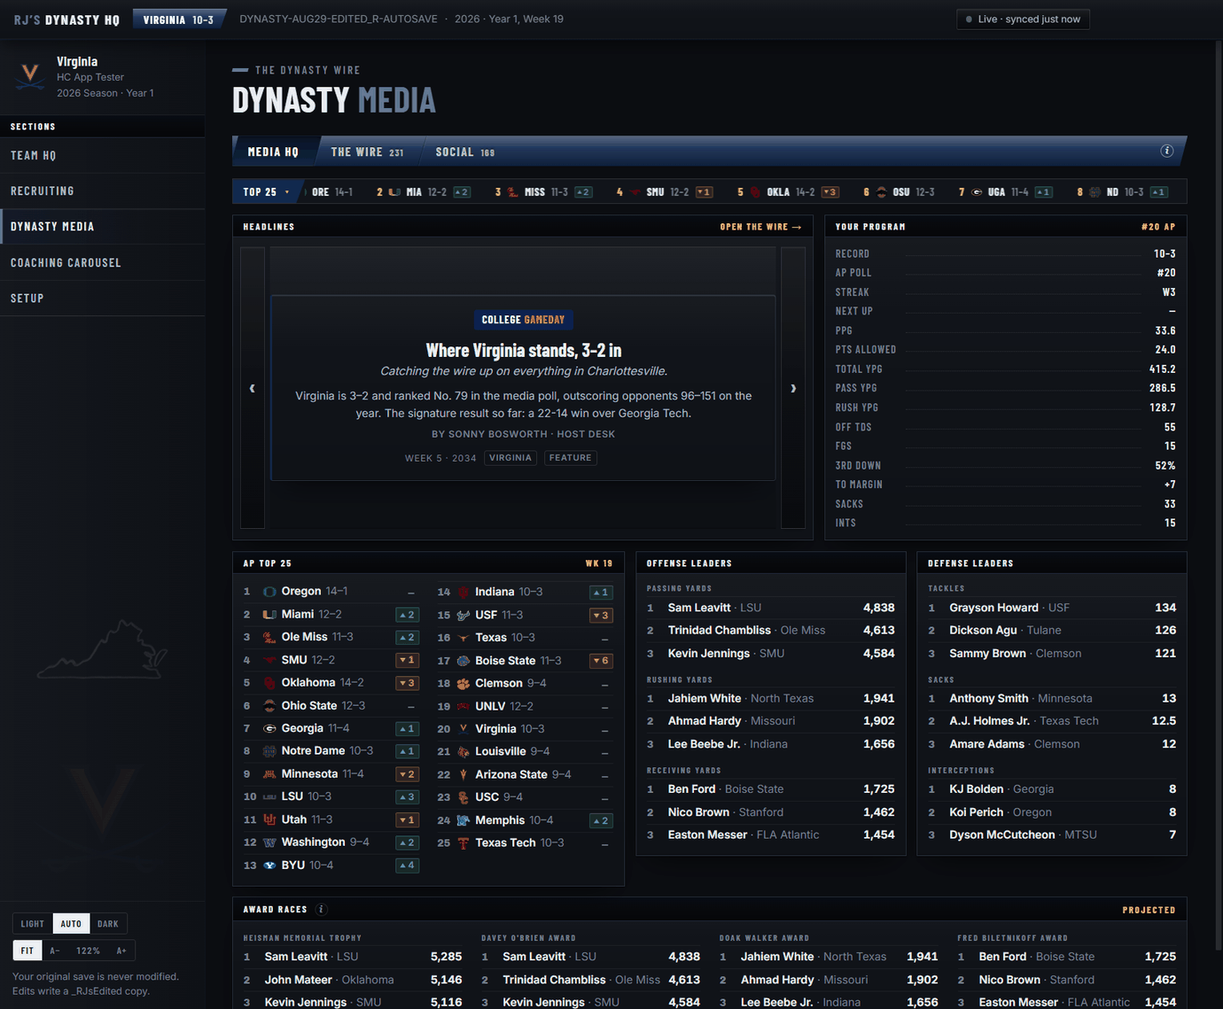
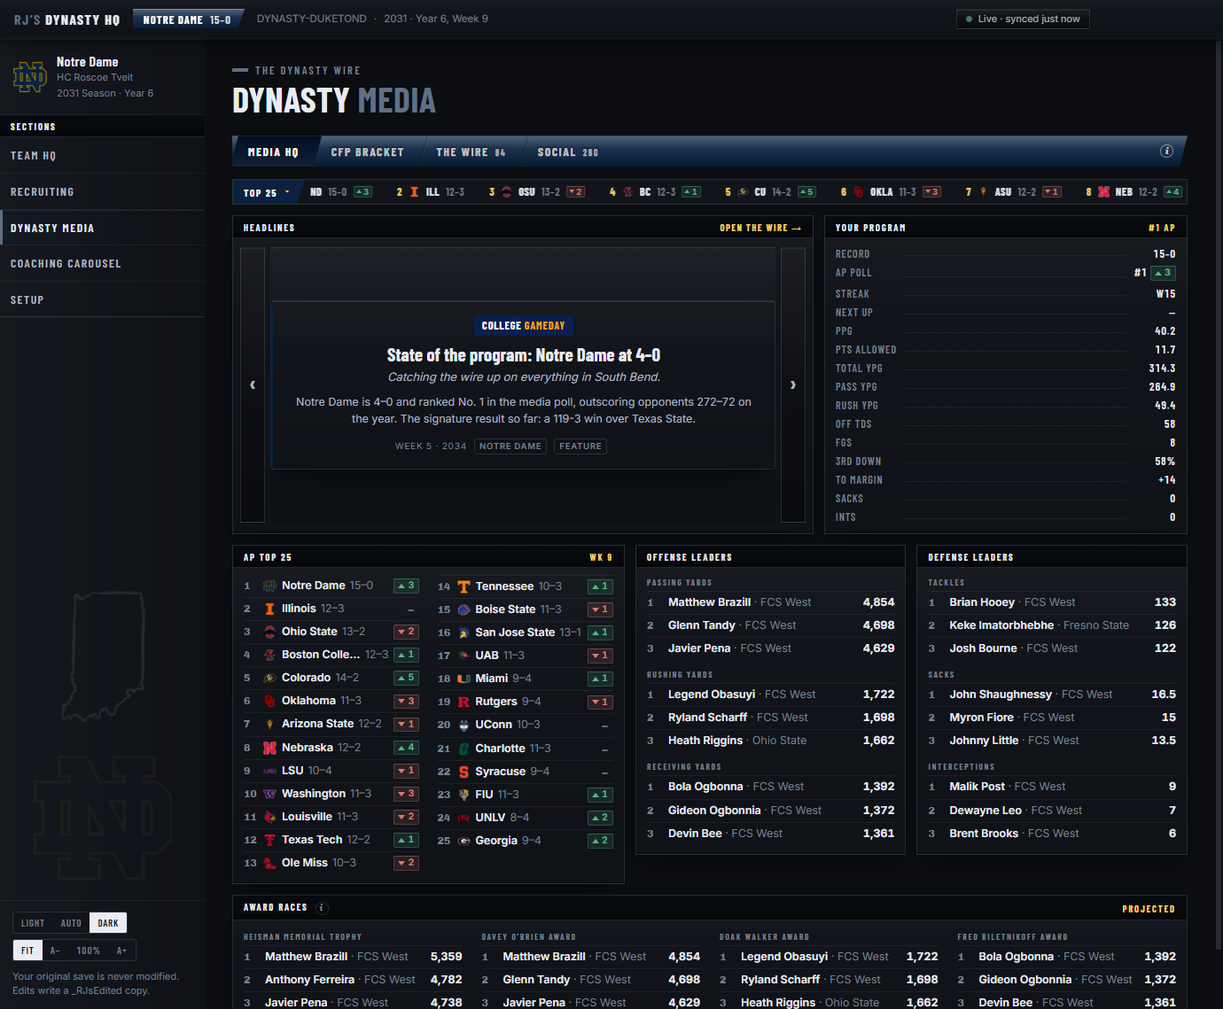
README: document the new features, refresh screenshots, tighten prose
Covers the three screens added since the last README pass: This Week's
Matchup, the Team History trophy case, and the Media HQ CFP Bracket. The
extract-rivalry-art.ts step is added to the game-art extraction list.

Renewed the screenshots whose tab bars had gone stale (the program
dashboard was missing the Matchup tab; the media screens were missing
the CFP Bracket tab) and added shots for the three new screens, all at
the existing 1380x1139 size.

Also reworked the prose so it reads plainly: removed the em dashes
throughout and smoothed the phrasing.

diff --git a/README.md b/README.md
@@ -2,7 +2,7 @@
 
 A live companion dashboard for **EA Sports College Football 27** dynasty mode on PC.
 
-Point it at your dynasty save once — from then on, every time the game writes that save, the dashboard refreshes itself. No screenshots, no spreadsheets, no manual entry. When you load a different save, it finds the program you're coaching on its own.
+Point it at your dynasty save once. From then on, every time the game writes that save, the dashboard refreshes itself. No screenshots, no spreadsheets, no manual entry. When you load a different save, it finds the program you're coaching on its own.
 
 ![Program Dashboard](docs/screenshots/program-dashboard.png)
 
@@ -10,18 +10,21 @@ Point it at your dynasty save once — from then on, every time the game writes 
 
 ### Team HQ
 
-Everything about your program, in one place — set on your stadium's real field, with your school's actual end-zone paint and midfield art pulled from your own installed game.
+Everything about your program in one place, set on your stadium's real field with your school's actual end-zone paint and midfield art pulled from your own installed game.
 
-- **Program Dashboard** — a win/loss graph of your seasons in your school's colors, with national titles carrying the CFP mark and every bowl showing its own logo. Your **athletic director's mandate**: this season's expectation in the AD's own words, a job-security meter with your national standing, contract years remaining, and your active season goals. Your **pipeline map** with the game's own tier pins, and your full **program grades** sheet.
-- **Roster & depth chart** — overalls, dev traits, class years, redshirts, size and speed, archetypes and hometowns; every column sorts. The **depth chart edits by drag and drop** — reorder any position window and save it back through the same protected copy the player editor uses.
-- **Recruiting Office** — your board under the **Team Needs strip**: next season's 57-man floor drawn as literal seats per position — filled by returning players, gold for your commits, open where someone must be signed — with departures counted out the moment they're known. Each target row expands to their At a Glance card, and a quiet warning dot flags two of your own targets demanding playing time at the same spot.
-- **Weekly Plan** — a per-target dialog with the game's real action prices: assign hours, schedule visits, offer the scholarship (against the hard 35-offer season cap), send the NIL offer, set the sway pitch — with your remaining hour pool bookkept live and options that would blow the week's budget locked out with a plain explanation.
-- **Build the board** — add and drop targets right from either recruiting board, staged and saved in one write; **Create Recruit** invents a prospect from scratch: identity, stars, dev trait, measurables, and their whole look — face picked from the game's own head catalog, skin tone, body type, and every gear slot with real helmet-facemask compatibility.
-- **NIL & Budget** — income pillars with grades, spending, weekly staff points, NIL commitments — plus **Fundraising** and **Hire Additional Recruiters** buttons that write more budget or recruiting hours into your save's protected copy.
-- **Tendencies** — your real run/pass splits, third and fourth down rates, red-zone efficiency, and each coach's temperament sliders.
-- **Playbook** — the actual book your coordinators run, browsable by formation family, with personnel groupings and every play listed.
-- **Team History** — the all-time ledger and your rivalry series.
-- **Visit any program** — the View Another Team menu opens the full Team HQ for any school in the country, every tab included.
+- **Program Dashboard.** A win/loss graph of your seasons in your school's colors, with national titles carrying the CFP mark and every bowl showing its own logo. Your athletic director's mandate reads out this season's expectation in the AD's own words, next to a job-security meter with your national standing, contract years remaining, and your active season goals. Below that sits your pipeline map with the game's own tier pins and your full program grades sheet.
+- **This Week's Matchup.** Your featured game laid out as a pregame board on the home team's field, home team left and away team right. Tiles compare team form, offense and defense, the series history between the two schools, and the players worth watching: award winners, record holders and national statistical leaders on either side. Rivalry games carry the trophy on the line.
+- **Roster & depth chart.** Overalls, dev traits, class years, redshirts, size and speed, archetypes and hometowns, with every column sortable. The depth chart edits by drag and drop: reorder any position window and save it back through the same protected copy the player editor uses.
+- **Recruiting Office.** Your board under the Team Needs strip, which draws next season's 57-man floor as literal seats per position. Filled seats are returning players, gold seats are your commits, open seats are where someone still has to be signed, and departures are counted out the moment they're known. Each target row expands to an At a Glance card, and a quiet warning dot flags two of your own targets who would demand playing time at the same spot.
+- **Weekly Plan.** A per-target dialog with the game's real action prices. Assign hours, schedule visits, offer the scholarship against the hard 35-offer season cap, send the NIL offer, and set the sway pitch, with your remaining hour pool bookkept live. Options that would blow the week's budget are locked out with a plain explanation of why.
+- **Build the board.** Add and drop targets right from either recruiting board, staged and saved in one write. Create Recruit invents a prospect from scratch: identity, stars, dev trait, measurables, and their whole look, with the face picked from the game's own head catalog, plus skin tone, body type, and every gear slot using real helmet and facemask compatibility.
+- **NIL & Budget.** Income pillars with grades, spending, weekly staff points, and NIL commitments. Fundraising and Hire Additional Recruiters buttons write more budget or recruiting hours into your save's protected copy.
+- **Tendencies.** Your real run/pass splits, third and fourth down rates, red-zone efficiency, and each coach's temperament sliders.
+- **Playbook.** The actual book your coordinators run, browsable by formation family, with personnel groupings and every play listed.
+- **Team History.** A trophy case of your rivalry hardware, showing the real trophies the game models for each series, plus the rivalry ledger and your program's national honors and Heisman line. More on the trophy case below.
+- **Visit any program.** The View Another Team menu opens the full Team HQ for any school in the country, every tab included.
+
+![This Week's Matchup](docs/screenshots/this-weeks-matchup.png)
 
 ![Recruiting Office](docs/screenshots/recruiting-office.png)
 
@@ -29,26 +32,36 @@ Everything about your program, in one place — set on your stadium's real field
 
 ![Playbook](docs/screenshots/playbook.png)
 
-### Profiles — click any name, anywhere
+### Team History
 
-Every player, coach and school name in the app opens an ESPN-style profile card. Names inside a profile open more profiles; Esc walks back out.
+Your program's past, built from the save and dressed with the game's own art.
 
-- **Players** — a **Previous Game** score bug with their line from that game as stat tiles, season-by-season and career stats (transfers show every stop), full game logs, all ratings, named abilities, and — for quarterbacks — **NCAA passer rating** computed for every game, season and career line.
-- **Recruits** — stars and ranks, the full pursuit race with influence bars, their dealbreaker, and their **three motivations with the ideal pitch** that matches them, straight from the game's own pitch definitions.
-- **Coaches** — bio, contract and job security, the career ledger, and their full coaching history.
-- **Schools** — a season browser with schedules and results, team stat panels, records and coaches year by year, and the all-time program ledger.
-- **Real headshots** — profiles show actual in-game player and coach portraits once you extract them from your own installed game (see below).
+- **Trophy case.** The rivalry trophies the game actually models for your series, each real trophy render pulled from your installed game, lit up gold where your program leads the series and showing the record and current streak.
+- **Rivalry ledger.** Every series your program is part of, with all-time records, live streaks and last-meeting scores, each carrying its trophy mark where one exists.
+- **Program honors and Heisman line.** Every national award won at your school, listed by season, and the league's Heisman winners with yours highlighted.
+
+![Team History](docs/screenshots/team-history.png)
+
+### Profiles: click any name, anywhere
+
+Every player, coach and school name in the app opens an ESPN-style profile card. Names inside a profile open more profiles, and Esc walks back out.
+
+- **Players.** A Previous Game score bug with their line from that game as stat tiles, season-by-season and career stats (transfers show every stop), full game logs, all ratings, named abilities, and NCAA passer rating computed for every game, season and career line for quarterbacks.
+- **Recruits.** Stars and ranks, the full pursuit race with influence bars, their dealbreaker, and their three motivations with the ideal pitch that matches them, straight from the game's own pitch definitions.
+- **Coaches.** Bio, contract and job security, the career ledger, and their full coaching history.
+- **Schools.** A season browser with schedules and results, team stat panels, records and coaches year by year, and the all-time program ledger.
+- **Real headshots.** Profiles show actual in-game player and coach portraits once you extract them from your own installed game (see below).
 
 ![Player profile](docs/screenshots/profile.png)
 
 ### Player Editor
 
-Every player and recruit profile opens into an editor — hit **✎ Edit**.
+Every player and recruit profile opens into an editor. Hit **✎ Edit**.
 
-- Change **names and jersey numbers**, the position's full **rating sheet**, **mental abilities** and their tiers, and **physical ability tiers** — all validated against the save format's real limits before a single byte is written.
-- Edit a rostered player's whole **appearance**: their face (picked from the game's head catalog, with portrait previews), skin tone, body type, and all eleven gear slots — helmet and facemask combinations restricted to pairs the game actually uses.
-- **Your original save is never touched.** Saving writes a separate copy named `<save>_RJsEdited` beside the original, and the dashboard follows that copy from then on; load it in the game to play with your changes. Editing again updates the copy in place, after a timestamped backup.
-- Overall recalculates in the game itself the next time it loads the save — the app never invents a number.
+- Change names and jersey numbers, the position's full rating sheet, mental abilities and their tiers, and physical ability tiers, all validated against the save format's real limits before a single byte is written.
+- Edit a rostered player's whole appearance: their face (picked from the game's head catalog, with portrait previews), skin tone, body type, and all eleven gear slots, with helmet and facemask combinations restricted to pairs the game actually uses.
+- Your original save is never touched. Saving writes a separate copy named `<save>_RJsEdited` beside the original, and the dashboard follows that copy from then on. Load it in the game to play with your changes. Editing again updates the copy in place, after a timestamped backup.
+- Overall recalculates in the game itself the next time it loads the save. The app never invents a number.
 
 ![Player editor](docs/screenshots/player-editor.png)
 
@@ -56,9 +69,9 @@ Every player and recruit profile opens into an editor — hit **✎ Edit**.
 
 Three boards over the national class, under the same Team Needs seats as the office.
 
-- **Highschool Recruiting** — every prospect in the class with stars, true overall, height and weight, gem/bust, dev trait, pipeline, position and national rank, offers and commit tracking. A **Scheme Fit** dot shows how the recruit's archetype sits in your actual scheme — filled when your scheme starts that archetype, from the game's own per-scheme preferences — and the **Edge** arrow scores your program against the strongest school actually pursuing them: green when you hold a real advantage, red when you're behind. **Clicking any recruit expands their At a Glance card**: the skills their position lives on, their mental and physical abilities, and their motivations and ideal pitch.
-- **Transfer Portal** — the same board for portal transfers, which fills once your save reaches the offseason window.
-- **Scouting Reports** — search the class by attribute. *Receivers with 92+ speed. Quarterbacks with 94+ throw power. Tackles over 6'6" and 300 pounds.* Stack as many thresholds as you like; each becomes its own sortable column.
+- **Highschool Recruiting.** Every prospect in the class with stars, true overall, height and weight, gem/bust, dev trait, pipeline, position and national rank, offers and commit tracking. A Scheme Fit dot shows how the recruit's archetype sits in your actual scheme, filled when your scheme starts that archetype, from the game's own per-scheme preferences. The Edge arrow scores your program against the strongest school actually pursuing them: green when you hold a real advantage, red when you're behind. Clicking any recruit expands their At a Glance card with the skills their position lives on, their mental and physical abilities, and their motivations and ideal pitch.
+- **Transfer Portal.** The same board for portal transfers, which fills once your save reaches the offseason window.
+- **Scouting Reports.** Search the class by attribute. *Receivers with 92+ speed. Quarterbacks with 94+ throw power. Tackles over 6'6" and 300 pounds.* Stack as many thresholds as you like, and each becomes its own sortable column.
 
 ![Recruiting board](docs/screenshots/recruiting-board.png)
 
@@ -66,42 +79,45 @@ Three boards over the national class, under the same Team Needs seats as the off
 
 ### Dynasty Media
 
-A generated sports-media world built by diffing your saves — fully offline, no accounts, no API calls.
+A generated sports-media world built by diffing your saves, fully offline, with no accounts and no API calls.
 
-- **Media HQ** — a league dashboard: a **ticker** that switches between the Top 25 (with logos, records and poll movement), stat leaders ranked three deep per category, and award races projected under the game's **real award names**; the full AP Top 25; your program's season sheet; offense and defense leaders; and the award watch.
-- **The Wire** — game stories with margin-aware writing, rivalry and bowl angles, poll movement, commits and flips, coaching changes, roster churn, weekly Players of the Week, stat lines, win streaks, the annual awards show and draft day — every article **bylined by a fictional press corps** of beat writers and columnists with their own voices, and no headline or story template repeating within a season. Click any story to read the full article.
-- **Social** — a timeline of posts from the wire's personalities reacting to the news as it breaks.
-- Real network branding by default, a fictional pack one toggle away.
+- **Media HQ.** A league dashboard with a ticker that switches between the Top 25 (with logos, records and poll movement), stat leaders ranked three deep per category, and award races projected under the game's real award names. Below it: the full AP Top 25, your program's season sheet, offense and defense leaders, and the award watch.
+- **CFP Bracket.** The College Football Playoff as a bracket board, rebuilt from the save's own playoff games. Four rounds flow into the champion, with team logos, scores and byes all read straight from the results. It shows the current season once it reaches December, otherwise the most recent completed bracket.
+- **The Wire.** Game stories with margin-aware writing, rivalry and bowl angles, poll movement, commits and flips, coaching changes, roster churn, weekly Players of the Week, stat lines, win streaks, the annual awards show and draft day. Every article is bylined by a fictional press corps of beat writers and columnists with their own voices, and no headline or story template repeats within a season. Click any story to read the full article.
+- **Social.** A timeline of posts from the wire's personalities reacting to the news as it breaks.
+- Real network branding by default, with a fictional pack one toggle away.
 
 ![Media HQ](docs/screenshots/dynasty-media.png)
+
+![CFP Bracket](docs/screenshots/cfp-bracket.png)
 
 ![The Wire](docs/screenshots/the-wire.png)
 
 ### Coaching Carousel
 
-A league-wide job security board for every head coach and coordinator — hot seats, contract years, secure programs — plus an **openings forecast** built from save facts: who's on thin ice, whose deal is expiring, and which athletic directors have short patience.
+A league-wide job security board for every head coach and coordinator: hot seats, contract years, and secure programs, plus an openings forecast built from save facts about who's on thin ice, whose deal is expiring, and which athletic directors have short patience.
 
-And when a CPU coach has worn out their welcome in your league: **Fire Coach**. It writes the carousel's real input — the hot seat itself — into your save's protected copy, so the game's own end-of-season machinery does the deed.
+And when a CPU coach has worn out their welcome in your league, there's **Fire Coach**. It writes the carousel's real input, the hot seat itself, into your save's protected copy, so the game's own end-of-season machinery does the deed.
 
 ![Coaching Carousel](docs/screenshots/carousel.png)
 
 ### Throughout
 
-- **Auto-sync** — watches your save and re-reads it the moment the game writes. A status pill shows live/parsing/error at all times.
-- **Knows whose dynasty it is** — loading a save selects the program you're coaching automatically; a save with several user-controlled teams asks which one is yours.
-- **Knows where your game is** — the install is auto-detected across Steam libraries and the usual locations; if yours lives somewhere unusual, point Setup at the folder once.
-- **Real branding** — all 138 team logos and every bowl logo ship with the app; no downloads, no setup.
-- **Correct names** — archetypes, award names, pitch names and ability names all read the way the game shows them, extracted from the game's own data rather than transcribed. (The identifiers lie: the save calls the "Gamer" pitch `ItsGameTime`.)
-- **Team colors & themes** — the UI accents itself with your school's colors from the save; light, dark and system themes; an interface scale that fits itself to your window; remembers your save, school and window.
-- **Diagnostics you can actually report** — the app keeps a small local log, and every error carries a short stable code (like `HQ-3F2A`). If something misbehaves, **Setup → Copy report** puts your version, environment and recent log on the clipboard, ready to paste into a bug report.
+- **Auto-sync.** Watches your save and re-reads it the moment the game writes. A status pill shows live, parsing or error at all times.
+- **Knows whose dynasty it is.** Loading a save selects the program you're coaching automatically. A save with several user-controlled teams asks which one is yours.
+- **Knows where your game is.** The install is auto-detected across Steam libraries and the usual locations. If yours lives somewhere unusual, point Setup at the folder once.
+- **Real branding.** All 138 team logos and every bowl logo ship with the app. No downloads, no setup.
+- **Correct names.** Archetypes, award names, pitch names and ability names all read the way the game shows them, extracted from the game's own data rather than transcribed. The identifiers lie: the save calls the "Gamer" pitch `ItsGameTime`.
+- **Team colors & themes.** The UI accents itself with your school's colors from the save. Light, dark and system themes, an interface scale that fits itself to your window, and it remembers your save, school and window.
+- **Diagnostics you can actually report.** The app keeps a small local log, and every error carries a short stable code (like `HQ-3F2A`). If something misbehaves, **Setup → Copy report** puts your version, environment and recent log on the clipboard, ready to paste into a bug report.
 
-Everything works fully offline. Articles come from a deterministic template engine — no accounts, no API keys, no network calls. The only exception is an optional launch-time update check, which you can switch off.
+Everything works fully offline. Articles come from a deterministic template engine, with no accounts, no API keys and no network calls. The only exception is an optional launch-time update check, which you can switch off.
 
 ## Requirements
 
 - Windows 10/11
 - EA Sports College Football 27 on PC (Steam, EA App, or Epic)
-- An **offline (solo) dynasty** — online dynasty data lives on EA's servers, not in a local file
+- An **offline (solo) dynasty**. Online dynasty data lives on EA's servers, not in a local file.
 
 ## Install
 
@@ -117,29 +133,30 @@ The app auto-detects saves there (files starting with `DYNASTY-`) and lists them
 
 ## Portraits and game art
 
-Profiles can show the game's real player and coach headshots. Because that art belongs to your installed copy of the game, it never ships with the app — you extract it yourself, once:
+Profiles can show the game's real player and coach headshots. Because that art belongs to your installed copy of the game, it never ships with the app. You extract it yourself, once:
 
 ```
 node scripts/extract-portraits.ts <your-save> <output-folder> --recruits
 ```
 
-This reads your own install, pulls the portraits for your roster, the whole recruiting class and every coach, and writes them as PNGs — texture decoding is built in, so plain Node is all it takes. Point the portrait folder in **Setup** at the output and every profile gains its headshot. The folder also accepts community portrait packs named by portrait id.
+This reads your own install, pulls the portraits for your roster, the whole recruiting class and every coach, and writes them as PNGs. Texture decoding is built in, so plain Node is all it takes. Point the portrait folder in **Setup** at the output and every profile gains its headshot. The folder also accepts community portrait packs named by portrait id.
 
-The same goes for the rest of the game's art the app can use — your stadium's field paint, state silhouettes, and interface icons:
+The same goes for the rest of the game's art the app can use: your stadium's field paint, the rivalry logos and trophies, state silhouettes, and interface icons.
 
 ```
 node scripts/extract-field-art.ts
+node scripts/extract-rivalry-art.ts
 node scripts/extract-state-icons.ts
 node scripts/extract-game-icons.ts
 ```
 
-Each reads your install (found automatically, or set in **Setup → Game installation**) and drops PNGs where the app looks for them. Without them the app simply falls back to drawn stand-ins.
+Each reads your install (found automatically, or set in **Setup → Game installation**) and drops PNGs where the app looks for them. Without them the app falls back to drawn stand-ins.
 
 ## Is my save safe?
 
-Yes. The app never modifies your save: it copies the file to its own cache folder before parsing and never opens the original for writing.
+Yes. The app never modifies your save. It copies the file to its own cache folder before parsing and never opens the original for writing.
 
-The optional player editor follows the same rule by writing somewhere else entirely — using **Edit** in a player's profile creates a separate copy of your dynasty named `<save>_RJsEdited` next to the original and puts the changes there. Your original file keeps its exact bytes. Re-editing an edited copy updates that copy in place, after a timestamped backup is stored in the app's data folder. Load the `_RJsEdited` save in the game to play with your changes. Every save-writing feature — the editor, depth chart drag-and-drop, board edits, weekly plans, resources, Fire Coach, Create Recruit — goes through this one path.
+The optional player editor follows the same rule by writing somewhere else entirely. Using **Edit** in a player's profile creates a separate copy of your dynasty named `<save>_RJsEdited` next to the original and puts the changes there. Your original file keeps its exact bytes. Re-editing an edited copy updates that copy in place, after a timestamped backup is stored in the app's data folder. Load the `_RJsEdited` save in the game to play with your changes. Every save-writing feature (the editor, depth chart drag-and-drop, board edits, weekly plans, resources, Fire Coach, Create Recruit) goes through this one path.
 
 ## Build from source
 
@@ -166,7 +183,7 @@ node scripts/extract-pitches.ts  # regenerate pitch names + motivations from the
 
 ## Credits
 
-- Save parsing is built on [madden-franchise](https://github.com/bep713/madden-franchise) (MIT) by bep713 — the backbone of the Madden/CFB save-editing community.
+- Save parsing is built on [madden-franchise](https://github.com/bep713/madden-franchise) (MIT) by bep713, the backbone of the Madden/CFB save-editing community.
 - Thanks to the CFB 27 modding community for the collective knowledge about the dynasty save format.
 
 ## License
